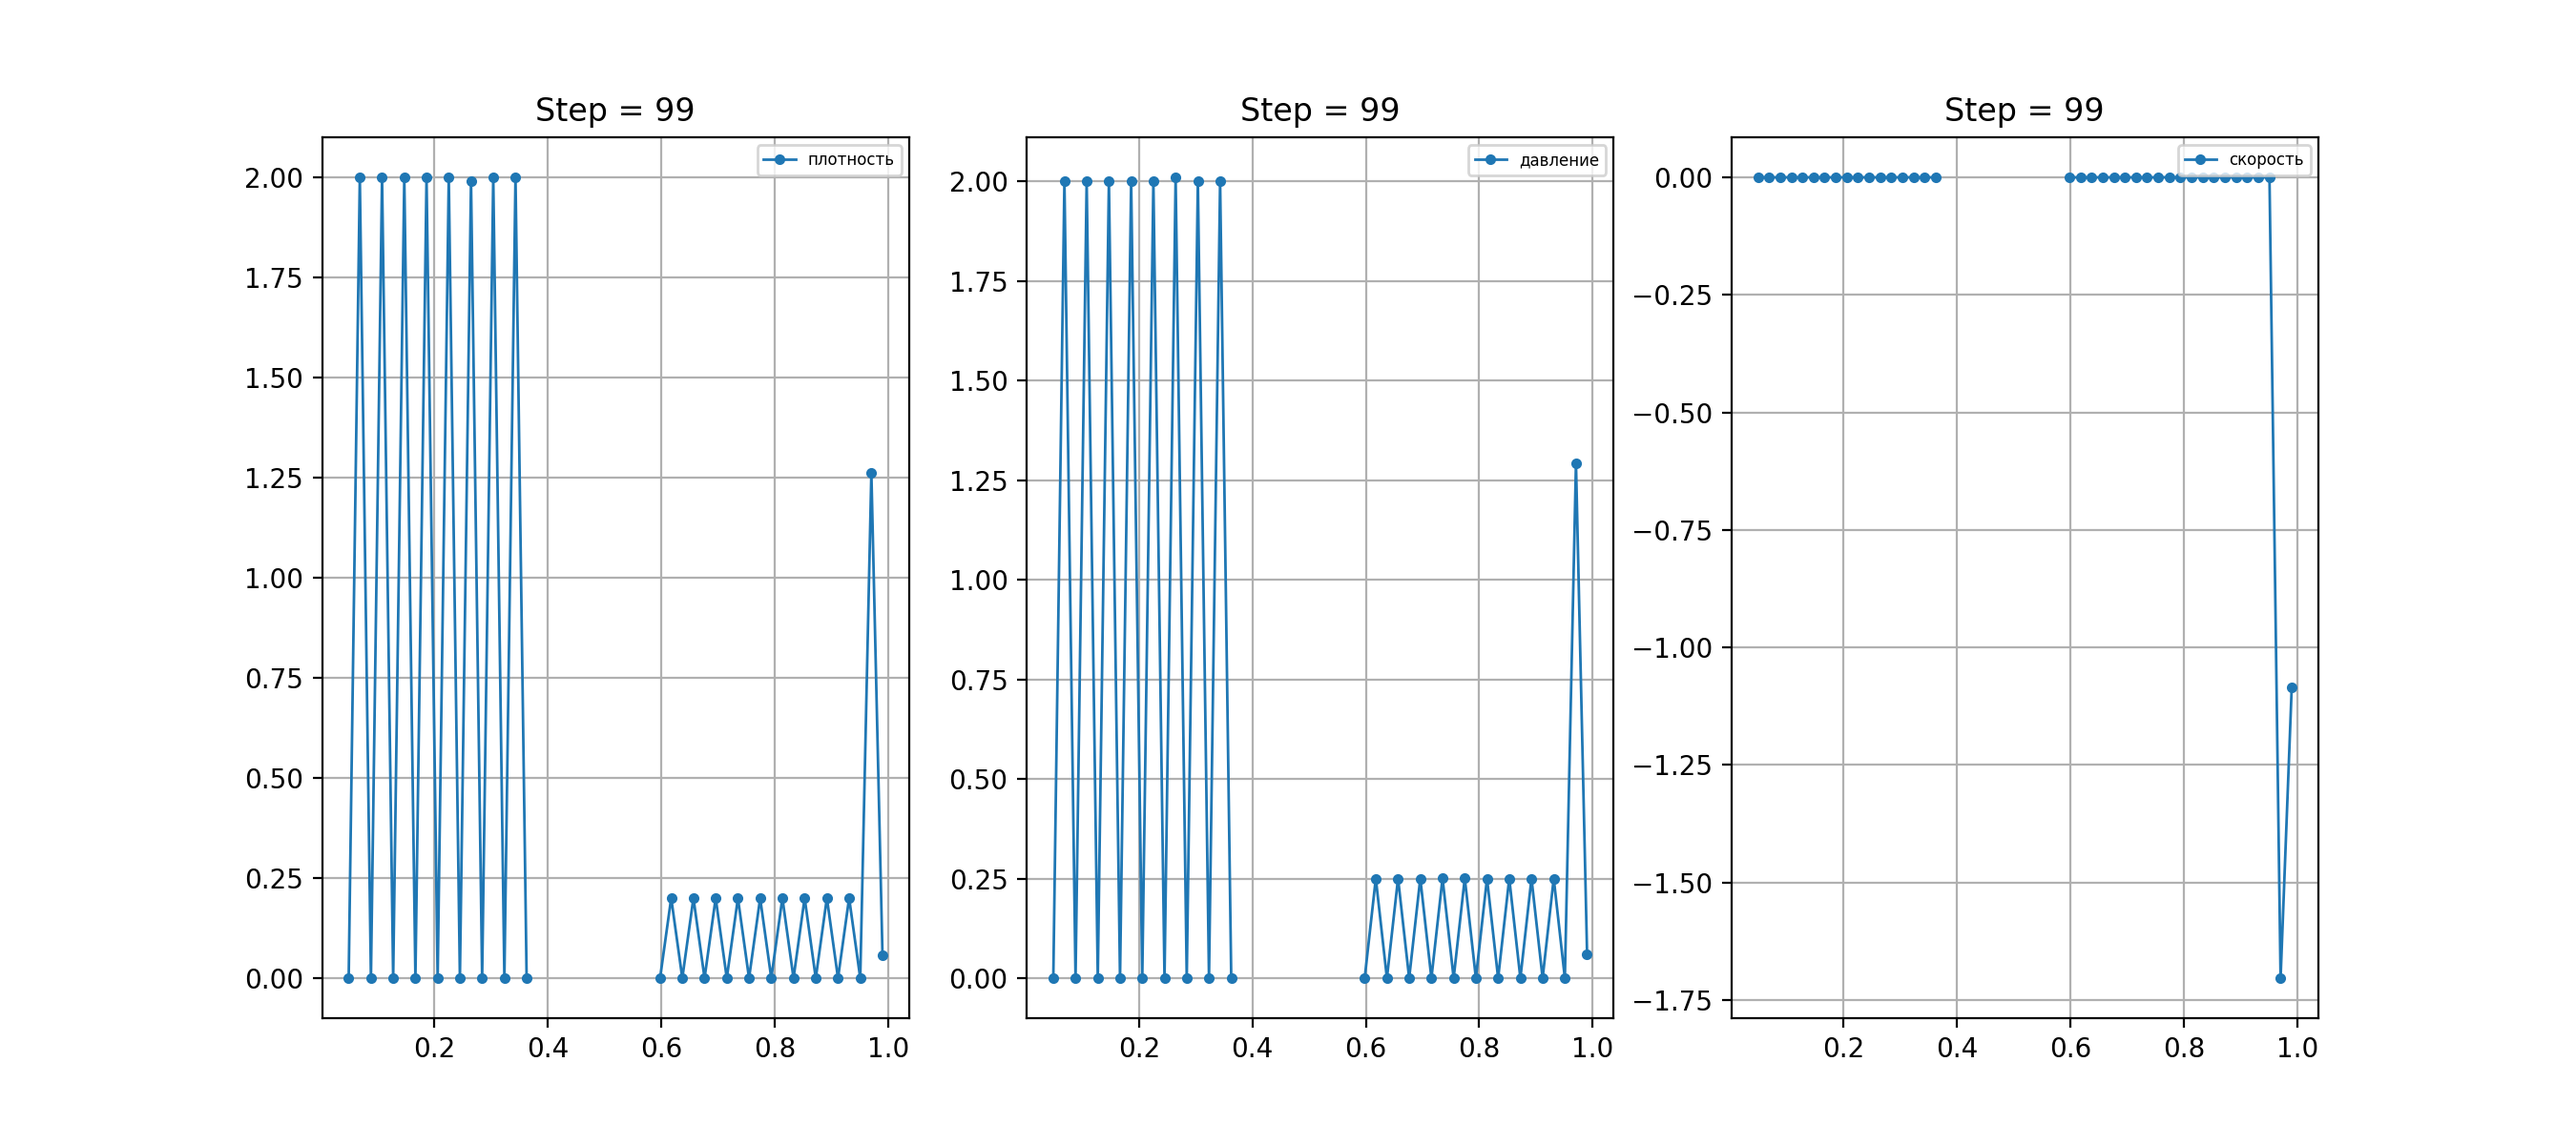
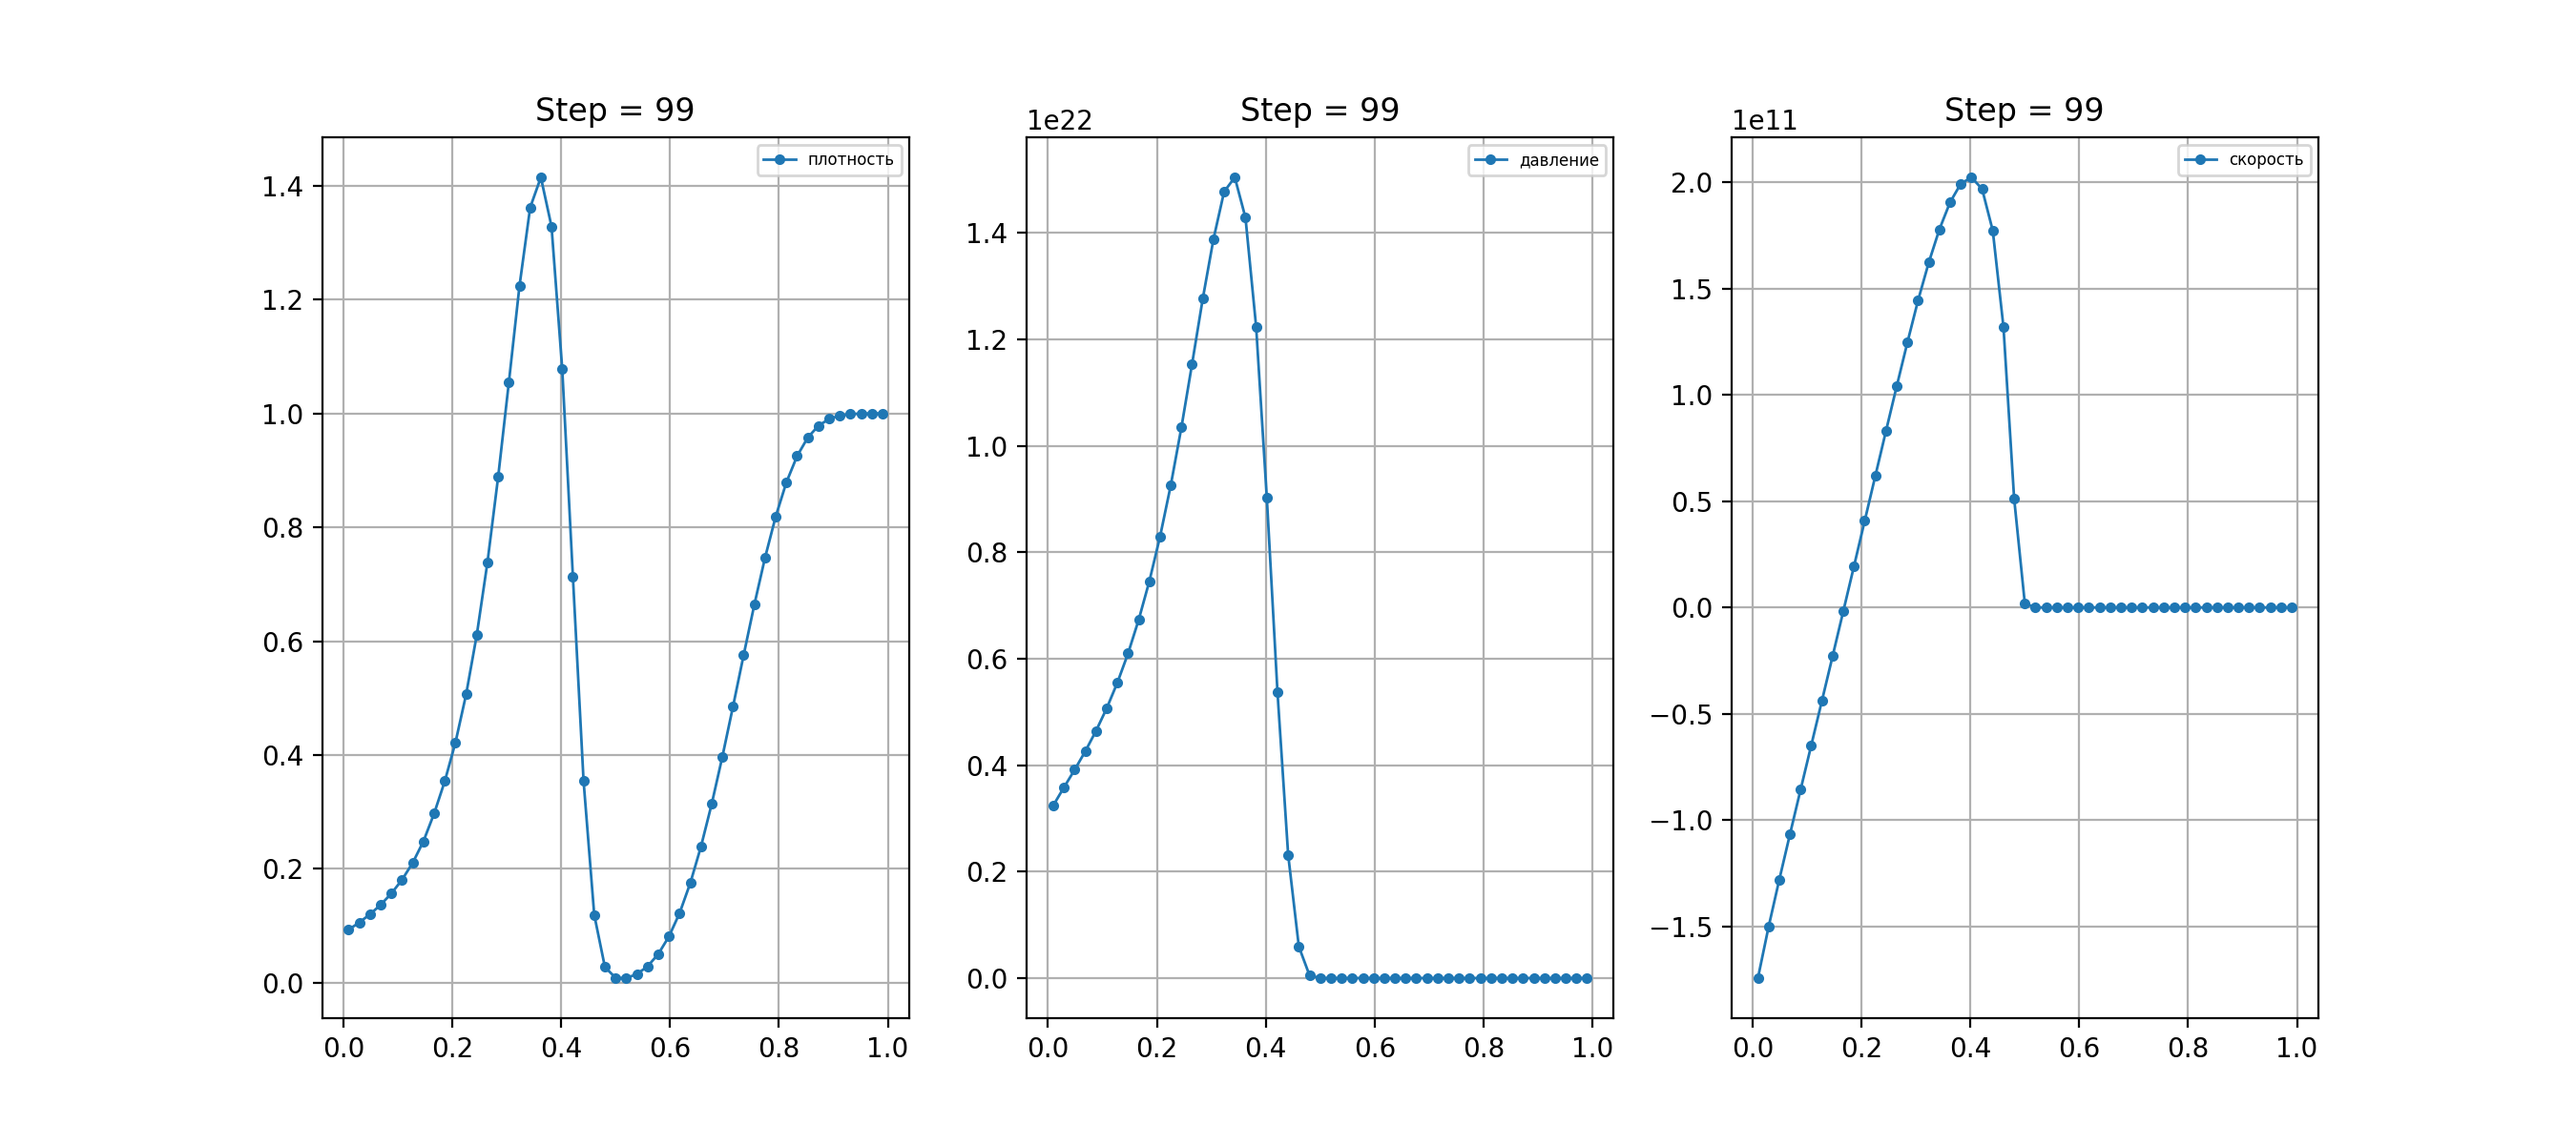
Bug fixed. Still doesn't calculate well

diff --git a/source/Solver_Godunov1D.cpp b/source/Solver_Godunov1D.cpp
@@ -1,7 +1,7 @@
 #include "Solver_Godunov1D.h"
 #include <cmath>
-#include <iostream>
-#include <string>
+//#include <iostream>
+//#include <string>
 
 
 
@@ -32,13 +32,13 @@ Solver_Godunov1D::Solver_Godunov1D(const Parameters& _par): par(_par)
     // Начальные условия
     set_initial_conditions();
     
+
+    t = 0.0;
+
     for (step = 1; step <= par.nt; step++)
     {
         // Решение на текущем шаге
         solve_step();
-
-        // Общее время
-        t += dt;
 
         // Запись в файл
         if (step % par.nt_write == 0)
@@ -165,13 +165,17 @@ void Solver_Godunov1D::apply_boundary_conditions()
 
 void Solver_Godunov1D::solve_step()
 {
-    // Применить граничные условия
-    apply_boundary_conditions();
-    
-
     // Пересчитать шаг по времени
     get_time_step();
-    
+   
+
+    // Общее время
+    t += dt;
+
+
+    // Применить граничные условия
+    apply_boundary_conditions();
+        
 
     // Параметры слева и справа на границе ячеек
     double *rho_left = new double[par.nx + 1];
@@ -229,19 +233,18 @@ void Solver_Godunov1D::solve_step()
     
 
         double p_s = 0.5 * (p_l + p_r);
-
-        double fl, fr;
-        double dfl, dfr;
-
+ 
 
         // Метод Ньютона - получим давление на контактном разрыве
+        double fl, fr;
+        double dfl, dfr;
         for (int k = 0; k < N_iter; ++k)
         {
             // TODO переписать в виде вызова функции 'newton_iteration'
             if (p_s <= p_l) // Волна разрежения
             {
-                fl = 2 * c_l / (par.gamma - 1) * pow(p_s / p_l, ((par.gamma - 1) / 2 / par.gamma) - 1);
-                dfl = c_l / par.gamma * pow(p_s / p_l, ((par.gamma - 1) / 2 / par.gamma - 1) / p_l);
+                fl = 2 * c_l / (par.gamma - 1) * (pow(p_s / p_l, ((par.gamma - 1) / 2 / par.gamma)) - 1);
+                dfl = c_l / par.gamma * pow(p_s / p_l, (par.gamma - 1) / 2 / par.gamma - 1) / p_l;
             }
 
 
@@ -254,8 +257,8 @@ void Solver_Godunov1D::solve_step()
 
             if (p_s <= p_r) // Волна разрежения
             {
-                fr = 2 * c_r / (par.gamma - 1) * pow(p_s / p_r, ((par.gamma - 1) / 2 / par.gamma) - 1);
-                dfr = c_r / par.gamma * pow(p_s / p_r, ((par.gamma - 1) / 2 / par.gamma - 1) / p_r);
+                fr = 2 * c_r / (par.gamma - 1) * (pow(p_s / p_r, (par.gamma - 1) / 2 / par.gamma) - 1);
+                dfr = c_r / par.gamma * pow(p_s / p_r, (par.gamma - 1) / 2 / par.gamma - 1) / p_r;
             }
 
 
@@ -277,13 +280,13 @@ void Solver_Godunov1D::solve_step()
         }
 
         // Волна разрежения
-        if (p_s <= p_l) fl = 2 * c_l / (par.gamma - 1) * pow(p_s / p_l, ((par.gamma - 1) / 2 / par.gamma) - 1);
+        if (p_s <= p_l) fl = 2 * c_l / (par.gamma - 1) * (pow(p_s / p_l, (par.gamma - 1) / 2 / par.gamma) - 1);
 
         // Ударная волна
         else fl = (p_s - p_l) / sqrt(rho_l / 2 * ((par.gamma + 1) * p_s + (par.gamma - 1) * p_l));
 
         // Волна разрежения
-        if (p_s <= p_r) fr = 2 * c_r / (par.gamma - 1) * pow(p_s / p_r, ((par.gamma - 1) / 2 / par.gamma) - 1);
+        if (p_s <= p_r) fr = 2 * c_r / (par.gamma - 1) * (pow(p_s / p_r, (par.gamma - 1) / 2 / par.gamma) - 1);
 
         // Ударная волна
         else fr = (p_s - p_r) / sqrt(rho_r / 2 * ((par.gamma + 1) * p_s + (par.gamma - 1) * p_r));
@@ -541,15 +544,15 @@ void Solver_Godunov1D::set_initial_conditions()
     {
         for (unsigned int i = 0; i < par.nx_all; ++i)
         {
-            if (i * par.dx <= par.x_start + 0.5 * (par.x_end - par.x_start) + par.nx_fict * par.dx)
+            if (i * par.dx <= 0.5 * (par.x_end - par.x_start) + par.nx_fict * par.dx)
             {
                 rho[i] = 1.0;
                 p[i] = 1.0;
             }
             else
             {
-                rho[i] = 0.1;
-                p[i] = 0.125;
+                rho[i] = 0.125;
+                p[i] = 0.1;
             };
             
             rho_e[i] = rho[i] * ((pow(0.0, 2)) / 2.0  + p[i] / (par.gamma - 1.0) / rho[i]);
@@ -565,8 +568,8 @@ void Solver_Godunov1D::set_initial_conditions()
         {
             rho[i] = 1.0;
 
-            if (i * par.dx <= par.x_start + 0.5 * (par.x_end - par.x_start) + par.nx_fict * par.dx) rho_u[i] = rho[i] * (-2.0);
 
+            if (i * par.dx <= 0.5 * (par.x_end - par.x_start) + par.nx_fict * par.dx) rho_u[i] = rho[i] * (-2.0);
 
             else rho_u[i] = rho[i] * 2.0;
             
@@ -582,15 +585,11 @@ void Solver_Godunov1D::set_initial_conditions()
     {
         for (unsigned int i = 0; i < par.nx_all; ++i)
         {
-            if (i * par.dx <= par.x_start + 0.5 * (par.x_end - par.x_start) + par.nx_fict * par.dx)
-            {
-                p[i] = 1000.0;
-            }
-            else
-            {
-                p[i] = 0.01;
-            };
+            if (i * par.dx <= 0.5 * (par.x_end - par.x_start) + par.nx_fict * par.dx) p[i] = 1000.0;
+
+            else p[i] = 0.01;
             
+
             rho[i] = 1.0;
             rho_e[i] = rho[i] * ((pow(0.0, 2)) / 2.0  + p[i] / (par.gamma - 1.0) / rho[i]);
             rho_u[i] = rho[i] * 0.0;
@@ -645,7 +644,7 @@ void Solver_Godunov1D::get_time_step()
     double min_dt = 1.0e6;
     for (unsigned int i = 1; i < par.nx_all; ++i)
     {
-        double u = rho_u[i]/rho[i];
+        double u = rho_u[i] / rho[i];
         double c = (rho[i] != 0.0) ? c = std::sqrt(par.gamma * p[i] / rho[i]) : 0.0;
         //double dx = x[i+1] - x[i];
         //double V = 0.5*(v[i+1] + v[i]);
